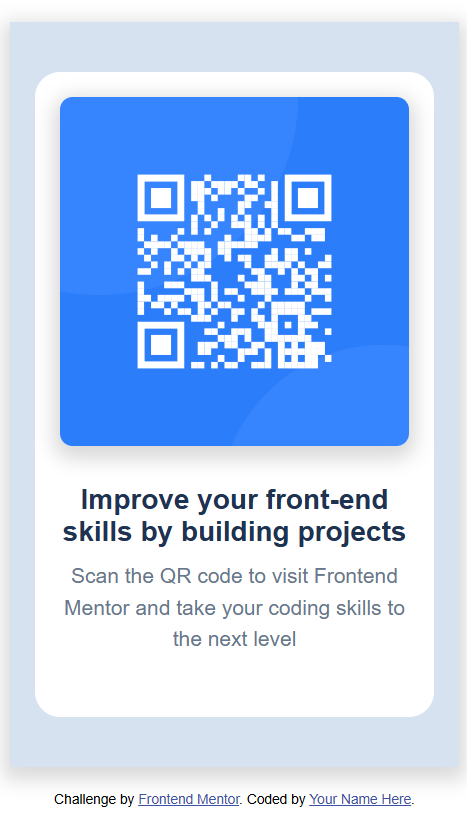
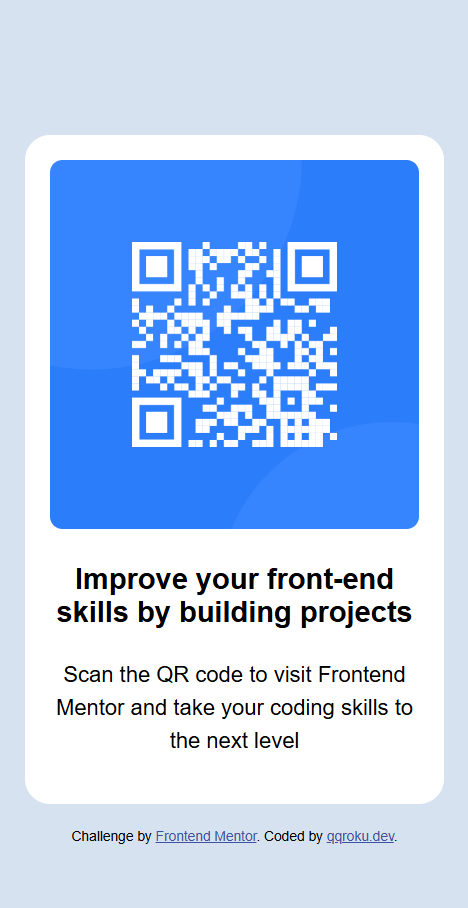
cleaned version of the original

diff --git a/styles.css b/styles.css
@@ -11,65 +11,44 @@
   box-sizing: border-box;
 }
 
+body {
+  margin: 0;
+  padding: 0 20px;
+  display: flex;
+  flex-direction: column;
+  gap: 20px;
+  justify-content: center;
+  align-items: center;
+  background-color: hsl(212, 45%, 89%);
+}
+
 html {
   font-size: 16px;
-}
-
-body {
   font-family: "Outfit", sans-serif;
-  margin: 0;
-  padding: 0;
-}
-
-.main-container {
-  margin: 20px auto;
-  padding: 20px;
-  background-color: hsl(212, 45%, 89%);
-  box-shadow: 0px 5px 15px 5px rgba(0, 0, 0, 0.15);
-  /* width: 100%;
-  max-width: 1200px; */
-  width: min(100%, 1200px);
 }
 
 .qrCode_card {
-  width: 100%;
-  max-width: 340px;
-  margin: 20px auto;
-  padding: 20px;
   background-color: white;
   border-radius: 20px;
-}
-
-.imgContainer {
-  display: flex;
-  justify-content: center;
-  margin-bottom: 30px;
+  width: 100%;
+  max-width: 350px;
+  padding: 20px;
+  margin-top: 110px;
+  text-align: center;
 }
 
 .qrCode-img {
   width: 100%;
-  background-size: contain;
   border-radius: 10px;
-  box-shadow: 0px 5px 15px 5px rgba(0, 0, 0, 0.15);
-}
-
-.heading,
-.message {
-  text-align: center;
-  margin: 0;
 }
 
 .heading {
   font-weight: 700;
-  font-size: 1.4rem;
-  margin: 10px 0;
-  color: hsl(218, 44%, 22%);
+  font-size: 1.45rem;
 }
 
 .message {
   font-weight: 400;
-  font-size: 1.05rem;
+  font-size: 1.1rem;
   line-height: 1.5;
-  margin-bottom: 30px;
-  color: hsl(216, 15%, 48%);
 }

diff --git a/index.html b/index.html
@@ -15,16 +15,14 @@
     <title>Frontend Mentor | QR code component</title>
   </head>
   <body>
-    <div class="main-container">
-      <div class="qrCode_card">
-        <div class="imgContainer">
-          <img
-            src="./images/image-qr-code.png"
-            alt="qr-code-img"
-            class="qrCode-img"
-          />
-        </div>
+    <div class="qrCode_card">
+      <img
+        src="./images/image-qr-code.png"
+        alt="qr-code-img"
+        class="qrCode-img"
+      />
 
+      <div class="text-container">
         <p class="heading">
           Improve your front-end skills by building projects
         </p>
